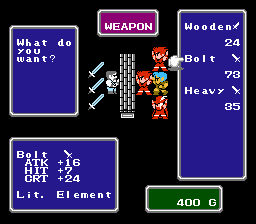
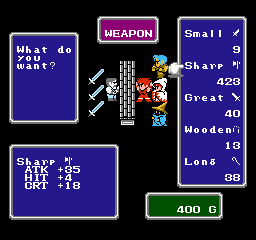
Update tooltips.  Add option to control magic items in common shops.

diff --git a/FF1Lib/Weapon.cs b/FF1Lib/Weapon.cs
@@ -201,7 +201,7 @@ namespace FF1Lib
 			}
 		}
 
-		public void Weaponizer(MT19337 rng, bool useQualityNamesOnly) {
+		public void Weaponizer(MT19337 rng, bool useQualityNamesOnly, bool commonWeaponsHavePowers) {
 		    var tierList = new List<IReadOnlyList<Item>> { ItemLists.CommonWeaponTier, ItemLists.RareWeaponTier,
 							  ItemLists.LegendaryWeaponTier, ItemLists.UberTier};
 		    var damageBases = new int[]      { 10, 18, 26, 36, 52 };
@@ -433,8 +433,9 @@ namespace FF1Lib
 				}
 			    } else {
 				int spellChance = rng.Between(1, 100);
-				if ((weaponType < 4 && spellChance <= 20)
-				    || (weaponType >= 4 && spellChance <= 50))
+				if ((commonWeaponsHavePowers || tier >= 2)
+				    && ((weaponType < 4 && spellChance <= Math.Min(10*tier, 20))
+					|| (weaponType >= 4 && spellChance <= Math.Min(30*tier, 60))))
 				{
 				    var spelllevelLow = Math.Min(tier*2, 6); // 2, 4, 6, 6
 				    var spelllevelHigh = Math.Min(spelllevelLow+4, 8); // 6, 8, 8, 8
@@ -444,14 +445,12 @@ namespace FF1Lib
 				}
 			    }
 
-			    // Need to special case: Defense, Katana, Xcal, Vorpal, Masa
-
 			    int specialPower = -1;
 			    if (spellIndex == 0xFF) {
 				int powerChance = rng.Between(1, 100);
-				if (tier == 1 && powerChance <= 20) {
+				if (tier == 1 && commonWeaponsHavePowers && powerChance <= 20) {
 				    specialPower = rng.Between(0, powers.Length-1);
-				} else if (tier > 1 && powerChance <= 80) {
+				} else if (tier > 1) {
 				    specialPower = rng.Between(0, powers.Length-1);
 				}
 			    }
@@ -612,6 +611,7 @@ namespace FF1Lib
 			    count++;
 			}
 		    }
+		    Utilities.WriteSpoilerLine("\n");
 		}
 
 	}

diff --git a/FF1Lib/FlagsViewModel.cs b/FF1Lib/FlagsViewModel.cs
@@ -677,13 +677,22 @@ namespace FF1Lib
 				PropertyChanged?.Invoke(this, new PropertyChangedEventArgs("Weaponizer"));
 			}
 		}
-		public bool WeaponizerNamesUseQualityOnly
+		public bool? WeaponizerNamesUseQualityOnly
 		{
 			get => Flags.WeaponizerNamesUseQualityOnly;
 			set
 			{
 				Flags.WeaponizerNamesUseQualityOnly = value;
 				PropertyChanged?.Invoke(this, new PropertyChangedEventArgs("WeaponizerNamesUseQualityOnly"));
+			}
+		}
+		public bool? WeaponizerCommonWeaponsHavePowers
+		{
+			get => Flags.WeaponizerCommonWeaponsHavePowers;
+			set
+			{
+				Flags.WeaponizerCommonWeaponsHavePowers = value;
+				PropertyChanged?.Invoke(this, new PropertyChangedEventArgs("WeaponizerCommonWeaponsHavePowers"));
 			}
 		}
 		public bool? MagicLevelsTiered

diff --git a/FF1Lib/Flags.cs b/FF1Lib/Flags.cs
@@ -162,7 +162,8 @@ namespace FF1Lib
 		public bool? MagisizeWeapons { get; set; } = false;
 		public bool? MagisizeWeaponsBalanced { get; set; } = false;
 		public bool? Weaponizer { get; set; } = false;
-		public bool WeaponizerNamesUseQualityOnly { get; set; } = false;
+		public bool? WeaponizerNamesUseQualityOnly { get; set; } = false;
+		public bool? WeaponizerCommonWeaponsHavePowers { get; set; } = false;
 		public bool? MagicLevelsTiered { get; set; } = false;
 		public bool? MagicLevelsMixed { get; set; } = false;
 

diff --git a/FF1Lib/FF1Rom.cs b/FF1Lib/FF1Rom.cs
@@ -295,7 +295,7 @@ namespace FF1Lib
 			}
 
 			if ((bool)flags.Weaponizer) {
-			    Weaponizer(rng, flags.WeaponizerNamesUseQualityOnly);
+			    Weaponizer(rng, (bool)flags.WeaponizerNamesUseQualityOnly, (bool)flags.WeaponizerCommonWeaponsHavePowers);
 			}
 
 			if ((bool)flags.MagisizeWeapons)
